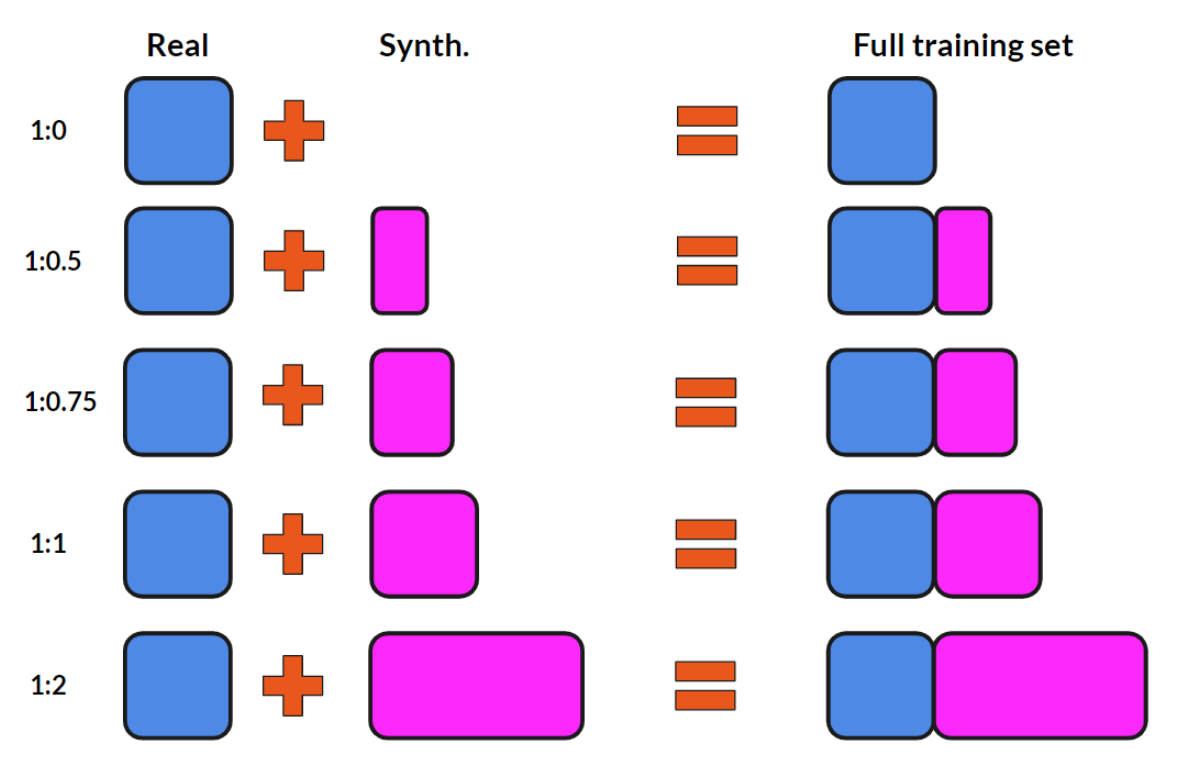
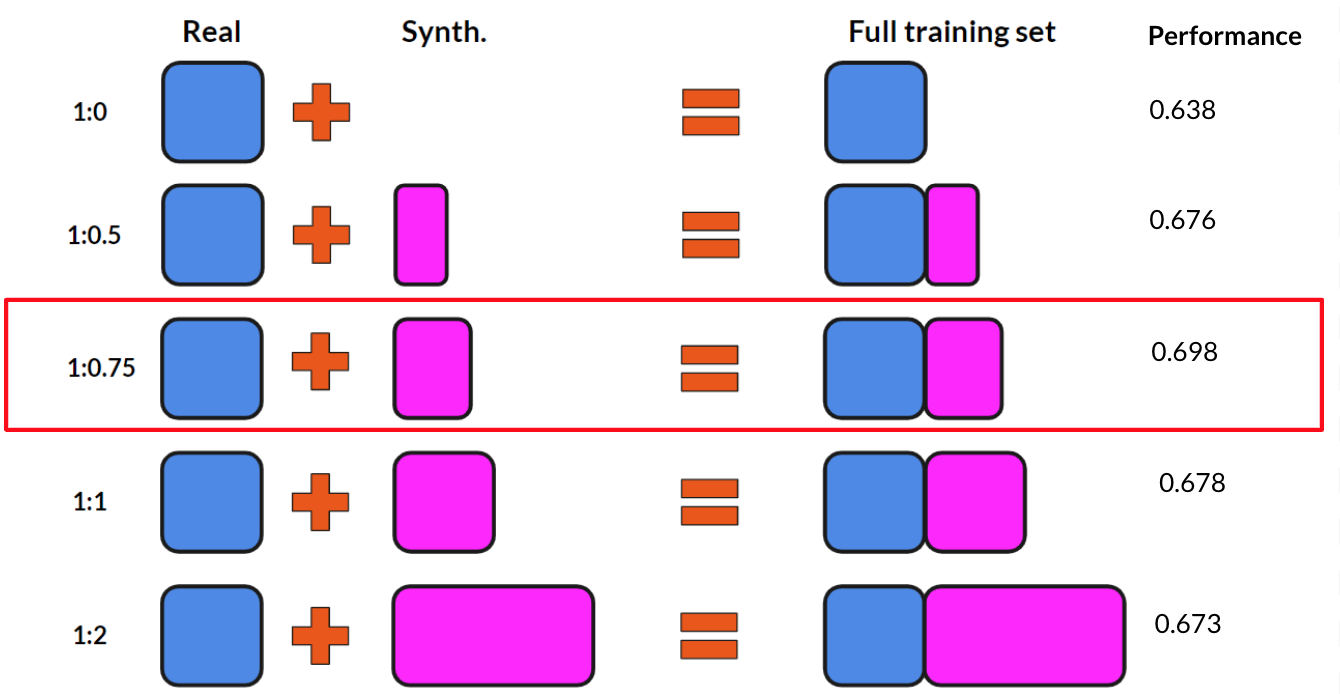
m

diff --git a/index.html b/index.html
@@ -468,9 +468,9 @@
             <h5 class="service-heading">Clustering and Stratified Sampling</h5>
               <p class="text-muted" style="text-align: justify;">
                 Because our self-defined geographic regions are wide and diverse, it's important for our training and testing datasets
-                to be representative of a given geographic region. To increase homogeneity within a region, we used DBSCAN (Density-based spatial clustering of applications with noise) for clustering
-                within each region and then stratified sample from each cluster to construct our 100:100 (train to test ratio) constrained
-                baseline datasets. Each point represents an image, and each color represents a cluster or strata. Points that are in the same cluster are more similar to each other than points that are in different stratas. </p>
+                to be representative of a given geographic region. To increase homogeneity within a region (we define a region as a "domain"), we clustered 
+                within each region and then performed stratified sampling from each cluster to construct our 1:1 train:validation ratio (1 training image for each validation image) constrained
+                baseline datasets, including 100 images total across the clusters within each domain. Each point represents an image, and each color represents a cluster. Points that are in the same cluster are more similar to each other than points that are in different clusters. </p>
           </div>
           <div class="col-md-12 my-auto">
             <p style="text-align:center;">
@@ -481,7 +481,7 @@
           </div>
         </div>
 
-          <h5 class="service-heading">Optimizing Real to Synthetic Ratio</h5>
+          <h5 class="service-heading">Optimizing the Ratio of Real to Synthetic Data</h5>
           <div class="row">
 
             <div class="col-md-6 my-auto">
@@ -490,10 +490,10 @@
 
             <div class="col-md-6 my-auto">
               <p class="text-muted" style="text-align: justify;">
-                In order to construct our baseline and adding synthetic datasets, we need to figure out what real to synthetic ratio yields
-                the largest gain in performance. If we add too much synthetic data, then we run the risk of overfitting to synthetic data. If we add too little, then it won't change performance significantly. To find this ratio, we designed the following experiment, where we test 1:0, 1:0.5, 1:0.75,
-                1:1, and 1:2 real to synthetic ratios. After conducting these experiments, we found that 1:0.75 yields the largest performance
-                boost. Therefore, we design our experiments using the 1:0.75 ratio.  </p>
+                To construct our baseline and add synthetic data, we need to figure out what ratio of real to synthetic data yields
+                the largest gain in performance (if any). If we add too much synthetic data, then we run the risk of overfitting to synthetic data. If we add too little synthetic data, then it will have little impact on performance. To find this ratio, we designed an experiment, where we test ratios of 1:0, 1:0.5, 1:0.75,
+                1:1, and 1:2 real to synthetic ratios. After conducting these experiments, we found that 1:0.75 yields the greatest performance
+                as measured by average precision. Therefore, we design our experiments using the 1:0.75 ratio.  </p>
              </div>
         </div>
 
@@ -513,25 +513,36 @@
           <h5 class="service-heading">Overview</h5>
           <div class="row">
             <div class="col-md-6 my-auto">
-              <p class="text-muted" style="text-align: justify;">The long-term goal of our project is to apply our object detection model to a variety of unseen domains around the world, especially
-                in developing areas where information on energy infrastructure is hard to obtain. This requires our model to be able to <strong>generalizable</strong>,
-                that is, the ability to perform well on images that are different from the images it was trained on. Our hypothesis is that synthetic
-                imagery will help our model generalize to unseen domain - the model performance will improve when testing on a new geography in the presence
-                of synthetic data. To test our hypothesis, we designed cross-domain experiments, where we train on the source domain, but we test on the
-                target domain. To see the effects of synthetic imagery, we add synthetic imagery from the target domain in our modified datasets. We also
-                conducted within domain experiments, where we train and test on the target domain, to establish baseline performance. </p>
+              <p class="text-muted" style="text-align: justify;">In the context of our work, we define a <strong>domain</strong> as a geographic region, such as the US Pacific Northwest. A <strong>target domain</strong>  is where we aim to apply our model to, whereas a <strong>source domain</strong> is where the real training data comes from. 
+              
+              The long-term goal of our project is to apply our object detection model to a variety of unseen domains around the world, especially in developing areas where information on energy infrastructure is hard to obtain. This requires our model to be able to <strong>generalizable</strong>,
+                that is, the ability to perform well on images that are different from the images it was trained on. One real-world application in energy access planning is a scenario where there is limited labeled real data in target locations where we want to deploy energy resources to. For this scenario, we design <strong>within-domain</strong> experiments, where the target domain remains the same geographic region as source domain. 
+                
+                A second and more challenging scenario is when there is no real data in the target locations where we want to deploy energy resources to. Because the target domain has no real data, we have to draw data from an alternative source domain. For this scenario, we design <strong>cross-domain</strong> experiments, where we train on a source domain but we test on a target domain. 
+                
+               </p>
              </div>
+           
             <div class="col-md-6 my-auto">
-              <img src="img/methodology/Overall Experimental Setup.png" class="img-responsive" alt="" style="width:100%; height:100%">
+              <img src="img/methodology/Overall Domain Map.png" class="img-responsive" class="center" alt="" style="width:100%">
+              <br>
+              <caption class="text-muted"><i>Figure: Overall Experiment Setup. In within-domain experiments, the target domain (Northwest) remains the same geographic region as the source domain (Northwest). In cross-domain experiments, the target domain (Northeast) has no labeled real data, so the model is trained on a different source domain (Northwest) and then applied to the target domain. Orange color denotes a source domain, whereas blue color denotes a target domain.</i></caption>
             </div>
-
+            </div>
+          
+          <div class="row">
            <div class="col-md-6 my-auto">
              <img src="img/methodology/Pairwise Cycle.png" class="img-responsive" alt="Pairwise Experiment Setup" style="width:100%">
+              <caption class="text-muted"><i>Figure: Pairwise experiment setup. The arrow tails point toward the source domain (where real training data comes from), whereas the arrow heads point toward the target domain (where the model will be tested on). Bi-directional arrows indicate each domain serves as the source for testing the other two domains, and in a separate experiment, the same domain serves as the target to be tested using model trained on the other domains. </i></caption>
             </div>
 
             <div class="col-md-6 my-auto">
+              <p class="text-muted" style="text-align: justify;"> Our hypothesis is that synthetic
+                imagery will help our model generalize to unseen domain - the model performance will improve when testing on a new geography in the presence
+                of synthetic data. We assume that training and testing on separate data, but from within the same domain, will perform better in general than training and testing on separate data from different domains. Note that although examples from continental US is shown here, in reality, a target domain is likely a less developed area without reliable access to electricity, and a source domain is likely a developed area with readily available data on energy infrastructures.  </p>
              <p class="text-muted" style="text-align: justify;">
-               In our case, each domain is a geographic region that we defined. Namely, Northwest, Northeast, and Eastern Midwest. To test the impact of each region, we run a 3-way pairwise experiment, where we train and test on each of the 3 regions, resulting in 6 experiments. </p>
+               In our case, each domain is a geographic region that we defined. Namely, Northwest, Northeast, and Eastern Midwest. To test the impact of each region, we run a 3-way pairwise experiment, where we train and test on each of the 3 regions, resulting in 6 experiments. For example, the Northeast region serves as the source domain for testing Northwest and Eastern Midwest. Then in a different experiment, a model trained using Eastern Midwest is tested on Northeast, and in another experiment, a model trained on Northwest is tested on Northeast. </p>
+              
             </div>
           </div>
 
@@ -540,13 +551,13 @@
           <div class="row">
             <div class="col-md-6 my-auto">
             <img src="img/methodology/Within Domain Experiment.png" class="img-responsive" alt="" style="width:100%">
-           <caption class="text-muted"><i>Figure: Within-domain experiment example using Northwest as target domain.</i></caption>
+           <caption class="text-muted"><i>Figure: <strong>Within-domain</strong> experiment example using Northwest as target domain.</i></caption>
             </div>
           <div class="col-md-6 my-auto">
             <h5 class="service-heading">Within Domain Experiment (Target = Source)</h5>
              <p class="text-muted" style="text-align: left;">
                Before we test how well synthetic imagery improves performance when the model is testing on a different domain than the one
-               it was trained on, we need to establish some baseline to test if adding synthetic imagery improve our model accuracy. We need to know how well the model is doing when it is trained and
+               it was trained on, we need to establish some baseline performance results for detecting wind turbines in the imagery to evaluate whether adding synthetic imagery improves our model's accuracy. We need to know how well the model is doing when it is trained and
                tested on the same domain. Using Northwest region as our target domain, we ran our baseline and modified experiments,
                and we repeat for the other domains/regions.</p>
           </div>
@@ -558,13 +569,13 @@
           <div class="row">
             <div class="col-md-6 my-auto">
             <img src="img/methodology/Cross Domain Experiment.png" class="img-responsive" alt="" style="width:100%">
-           <caption class="text-muted"><i>Figure: Cross-domain experiment example using Northwest as target domain and Eastern Midwest as non-target domain.</i></caption>
+           <caption class="text-muted"><i>Figure: <strong>Cross-domain</strong> experiment example using Northwest as target domain and Eastern Midwest as non-target domain.</i></caption>
             </div>
           <div class="col-md-6 my-auto">
-            <h5 class="service-heading">Cross Domain Experiment (Target $\neq$ Source)</h5>
+            <h5 class="service-heading">Cross Domain Experiment (Target not equal to Source)</h5>
              <p class="text-muted" style="text-align: left;">
-               We are curious if synthetic data can help overcome differences in geography. To test whether adding synthetic imagery improve our model generalizability, we trained on one region, and tested
-               on another region (cross-domain). Then we added synthetic imagery similar to the target domain and compared performance against the baseline.
+               These experiments are designed to test if synthetic data can help overcome differences in geography. To test whether adding synthetic imagery improves our model's generalizability, we trained on one region, and tested
+               on another region (cross-domain). Then we added synthetic imagery similar to the target domain and compared performance against the baseline. Augmenting our baseline dataset with synthetic data not only provides more exmaples of images with wind turbines, but it provides examples that are more similar to the target locations the model will be deployed to. Thus, we expect adding synthetic data to improve our model's generalizability. 
                Here we demonstrate this experiment setup using Northwest as the target domain and Eastern Midwest as the non-target domain.
                We repeated for the other domains as well. </p>
           </div>
